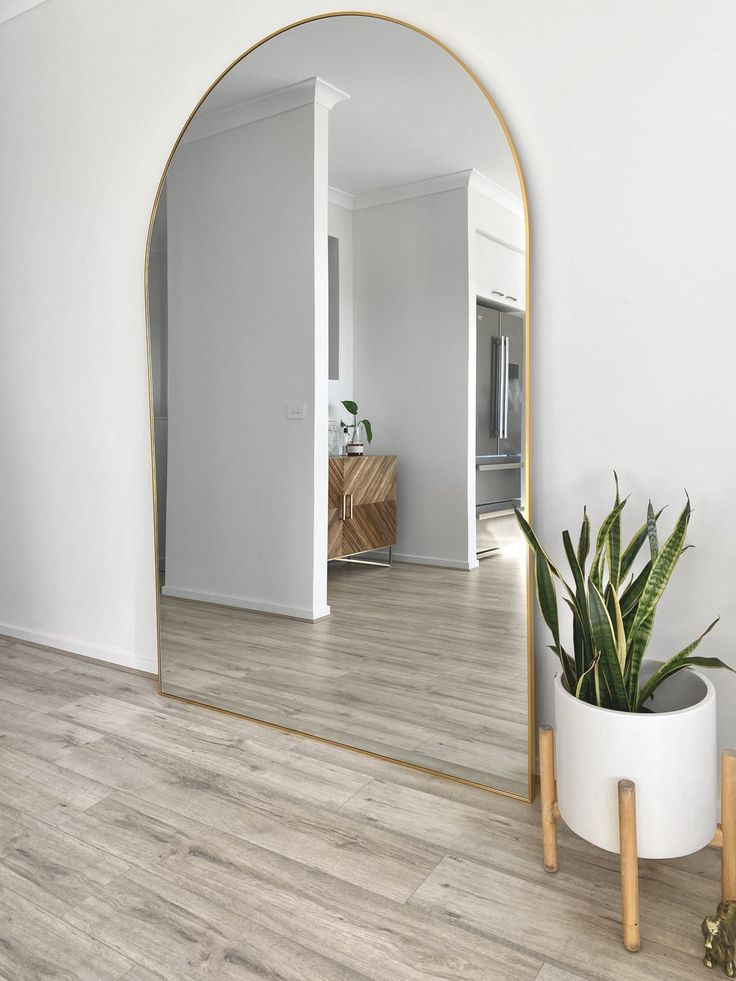
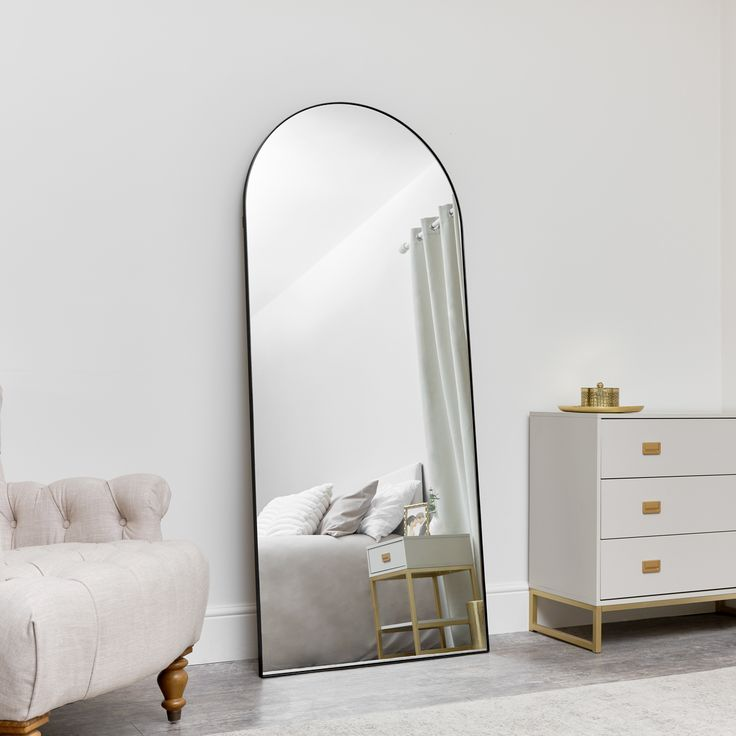
all

diff --git a/src/app/mirror/mirror.component.html b/src/app/mirror/mirror.component.html
@@ -2,8 +2,8 @@
     <div class="product-card">
         <div class="one"></div>
         <div class="product-info">
-            <h3>Product 1</h3>
-            <p class="description">A brief description of Product 1 goes here. It has amazing features.</p>
+            <h3>Full lengh mirror</h3>
+            <p class="description">This Large Black Arched Mirror is a striking full length mirror design perfect for placement in a hallway bedroom or bathroom space. Made of metal and glass this mirror has an arched design and a thin metal frame complete with a black finish. This mirror is a leaner mirror and cannot be wall mounted. A stylish chic mirror choice for fans of art deco minimalist or luxurious style interiors. Due to its large full length design this mirror would look fabulous in a bedroom or dressing room space. This mirror is also available in Gold.</p>
             <p class="price-range">$50 - $100</p>
         </div>
     </div>
@@ -11,8 +11,16 @@
     <div class="product-card">
         <div class="two"></div>
         <div class="product-info">
-            <h3>Product 2</h3>
-            <p class="description">A brief description of Product 2 goes here. Perfect for daily use.</p>
+            <h3>Asymmetrical Wooden Frame Mirror, Irregular Mirror</h3>
+            <p class="description"> Introducing our Asymmetric Wooden Framed Wall Mirrors—crafted from high-quality natural wood and designed to add a unique, elegant touch to any home décor. Each mirror is handcrafted with precision, offering custom production options for personalized designs. With fast and secure worldwide shipping, we guarantee a hassle-free shopping experience. Ideal for those looking to elevate their living spaces with an original, one-of-a-kind piece.</p>
+            <p class="price-range">$30 - $80</p>
+        </div>
+    </div>
+    <div class="product-card">
+        <div class="round"></div>
+        <div class="product-info">
+            <h3> Round Framed Wall Mounted Mirror</h3>
+            <p class="description">Reflect your interior style with this round mirror. With a simple curved design contrasted with the frame, this small mirror will stand out and make a statement on any wall in your home. Combining light and dark materials, the round wall mirror will add a touch of industrial style to your décor whether it is placed in the hallway, living room, or bathroom. Round mirrors are perfect for giving a room a soft touch as well as reflecting light to make the space look bigger and brighter.</p>
             <p class="price-range">$30 - $80</p>
         </div>
     </div>

diff --git a/src/app/carpets-mats/carpets-mats.component.html b/src/app/carpets-mats/carpets-mats.component.html
@@ -1,1 +1,29 @@
-<p>carpets-mats works!</p>
+<div class="product-section">
+    <div class="product-card">
+        <div class="mat"></div>
+        <div class="product-info">
+            <h3>Modern Bold Print Kitchen or hallway Mat</h3>
+            <p class="description">LUXURY GEOMETRIC PRINTED CARPETS Introducing our stunning geometric printed carpet, a perfect addition to any modern and contemporary interior space including your kitchen or hallwayy! Crafted with high-quality materials and advanced printing technology, this carpet boasts a bold and eye-catching geometric pattern that will elevate any room's aesthetic. The intricate design features sharp lines and angles that create a dynamic sense of movement and depth, adding an artistic touch to your floorin</p>
+            <p class="price-range">$50 - $100</p>
+        </div>
+    </div>
+    
+    <div class="product-card">
+        <div class="rug"></div>
+        <div class="product-info">
+            <h3>Living Room Rug Area Solid Carpet </h3>
+            <p class="description"> European and American StyleUse: Toilet,Home,Bedroom,Bathroom,Hotel,Decorative,OutdoorWash Style: Hand WashPlace: ParlorPattern Type: SolidShape: RectangleMaterial: Fleece FabricTechnics: Machine MadeDecoration Style</p>
+            <p class="price-range">$30 - $80</p>
+        </div>
+    </div>
+    <div class="product-card">
+        <div class="round"></div>
+        <div class="product-info">
+            <h3> Round Framed Wall Mounted Mirror</h3>
+            <p class="description">Reflect your interior style with this round mirror. With a simple curved design contrasted with the frame, this small mirror will stand out and make a statement on any wall in your home. Combining light and dark materials, the round wall mirror will add a touch of industrial style to your décor whether it is placed in the hallway, living room, or bathroom. Round mirrors are perfect for giving a room a soft touch as well as reflecting light to make the space look bigger and brighter.</p>
+            <p class="price-range">$30 - $80</p>
+        </div>
+    </div>
+
+    <!-- Add more product cards as needed -->
+</div>

diff --git a/src/app/carpets-mats/carpets-mats.component.css b/src/app/carpets-mats/carpets-mats.component.css
@@ -1,0 +1,73 @@
+.product-section {
+    display: flex;
+    flex-wrap: wrap;
+    justify-content: space-between;
+    gap: 20px;
+    padding: 20px;
+}
+
+.product-card {
+    width: 30%;
+    border: 1px solid #ddd;
+    border-radius: 8px;
+    padding: 10px;
+    box-shadow: 0 4px 8px rgba(0,0,0,0.1);
+    text-align: center;
+    transition: transform 0.3s;
+    overflow: hidden; /* Prevent overflow of content */
+}
+
+.product-card:hover {
+    transform: scale(1.05);
+}
+
+.product-image {
+    max-width: 100%;
+    height: auto;
+    border-radius: 5px;
+}
+
+.product-info h3 {
+    font-size: 1.2em;
+    margin: 10px 0;
+}
+
+.description {
+    color: #555;
+    margin-bottom: 8px;
+}
+
+.price-range {
+    font-weight: bold;
+    color: #1a73e8;
+}
+
+.mat, .rug {
+    width: 100%;
+    height: 0;
+    padding-bottom: 75%; /* Aspect ratio to maintain image proportions (4:3) */
+    background-size: cover;
+    background-position: center;  
+    border-radius: 8px 8px 0 0; /* Add rounded corners to top of the card */
+}
+
+.mat {
+    background-image: url('../../assets/images/mat.jpeg');
+}
+.rug {
+    background-image: url('../../assets/images/rug.jpeg');
+}
+
+
+h3 {
+    color:blue;
+    font-style: italic;
+  }
+
+
+/* Responsive styling for smaller screens */
+@media screen and (max-width: 768px) {
+    .product-card {
+        width: 100%; /* Full width on smaller devices */
+    }
+}

diff --git a/src/app/mirror/mirror.component.css b/src/app/mirror/mirror.component.css
@@ -42,7 +42,7 @@
     color: #1a73e8;
 }
 
-.one, .two {
+.one, .two,.round {
     width: 100%;
     height: 0;
     padding-bottom: 75%; /* Aspect ratio to maintain image proportions (4:3) */
@@ -58,6 +58,14 @@
 .two {
     background-image: url('../../assets/mirror/two.jpeg');
 }
+.round {
+    background-image: url('../../assets/mirror/Round.jpeg');
+}
+h3 {
+    color:blue;
+    font-style: italic;
+  }
+
 
 /* Responsive styling for smaller screens */
 @media screen and (max-width: 768px) {
